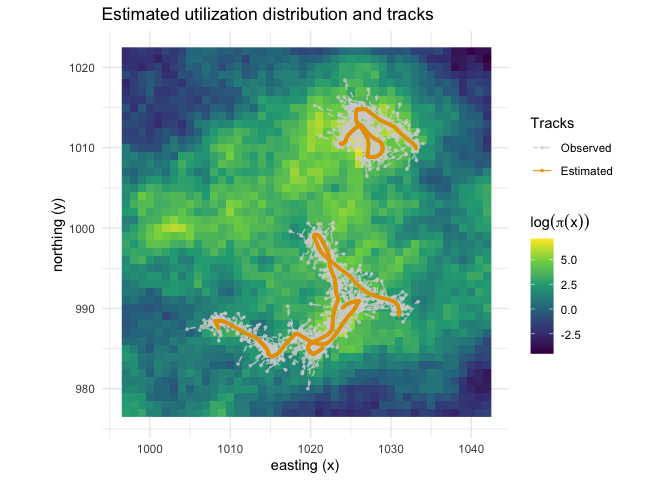
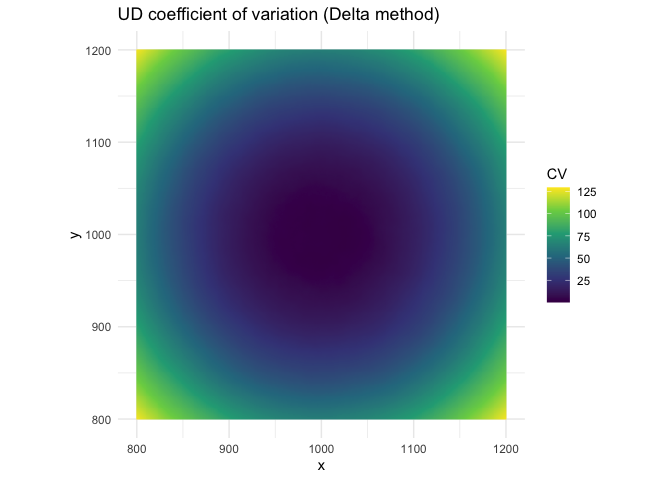
add UD uncertainty to README

diff --git a/README.md b/README.md
@@ -216,10 +216,31 @@ fit_under
 
 ``` r
 # calculate the estimated UD
-UD <- getUD(spatialCovs = exampleCovs, fit = fit_under)
+UD <- getUD(spatialCovs = exampleCovs, 
+            fit = fit_under, 
+            nSims = 1000, # Monte Carlo simulation
+            show_progress = FALSE)
 ```
 
 ![](man/figures/README-ud-1.png)<!-- -->
+
+``` r
+
+p_UD <- plotUD(UD)
+
+# UD relative uncertainty (Delta method approximation)
+p_UD$CV_delta
+```
+
+![](man/figures/README-ud-2.png)<!-- -->
+
+``` r
+
+# UD relative uncertainty (Monte Carlo simulation)
+p_UD$CV_sim
+```
+
+![](man/figures/README-ud-3.png)<!-- -->
 
 ``` r
 
@@ -227,18 +248,20 @@ UD <- getUD(spatialCovs = exampleCovs, fit = fit_under)
 plot(fit_under, spatialCovs = exampleCovs, data = exampleDat)
 ```
 
-![](man/figures/README-ud-2.png)<!-- -->
+![](man/figures/README-ud-4.png)<!-- -->
 
 #### Other S3 methods for `fitLangevin` objects
 
 ``` r
-coef(fit_under) # fixed effect estimates
+# fixed effect estimates
+coef(fit_under) 
 #>  beta_cov1  beta_cov2  beta_cov3   beta_d2c      sigma      gamma      rho_o 
 #> -3.5437139  8.6136199  7.5113365 -0.3083557  4.3092006  0.5849726  0.0000000 
 #>      tau_1      tau_2        psi 
 #>  1.0000000  1.0000000  1.0000000
 
-confint(fit_under) # confidence intervals for fixed effects
+# confidence intervals for fixed effects
+confint(fit_under) 
 #>                2.5 %     97.5 %
 #> beta_cov1 -5.9945650 -1.0928627
 #> beta_cov2  4.1147592 13.1124807
@@ -251,7 +274,9 @@ confint(fit_under) # confidence intervals for fixed effects
 #> tau_2      1.0000000  1.0000000
 #> psi        1.0000000  1.0000000
 
-mu_ci <- confint(fit_under, type= "mu") # confidence intervals for true locations
+# confidence intervals for true locations
+mu_ci <- confint(fit_under, type= "mu") 
+
 head(mu_ci)
 #>   id time_step     mu.x mu.x_2.5% mu.x_97.5%     mu.y mu.y_2.5% mu.y_97.5%
 #> 1  1         1 1023.966  1023.817   1024.115 990.0594  989.9307   990.1882
@@ -261,10 +286,12 @@ head(mu_ci)
 #> 5  1         5 1024.180  1024.091   1024.268 990.2515  990.1697   990.3333
 #> 6  1         6 1024.233  1024.153   1024.313 990.2968  990.2182   990.3754
 
-AIC(fit_under) # for comparing models with different fixed effects
+# AIC for comparing models with different fixed effects
+AIC(fit_under) 
 #> [1] 4135.94
 
-BIC(fit_under) # for comparing models with different fixed effects
+# BIC for comparing models with different fixed effects
+BIC(fit_under) 
 #> [1] 4167.819
 ```
 
@@ -272,8 +299,6 @@ BIC(fit_under) # for comparing models with different fixed effects
 
 ``` r
 # calculate one-step-ahead residuals for model diagnostics
-## can also be used to compare "underdamped" vs "overdamped" model fits
-
 res_under <- residuals(fit_under, data = exampleDat, spatialCovs = exampleCovs, ncores = 3)
 res_under
 #> 
@@ -310,6 +335,7 @@ p_under$qq_x + p_under$qq_y + p_under$acf_x + p_under$acf_y + plot_layout(ncol=2
 
 ``` r
 
+# can be used to compare "underdamped" vs "overdamped" models
 res_over <- residuals(fit_over, data = exampleDat, spatialCovs = exampleCovs, ncores = 3)
 res_over
 #> 
@@ -354,9 +380,9 @@ rasterOverlap(exp(UD), exp(trueUD))
 #### Regional presence probability
 
 ``` r
-# calculate probability of being in specified region
-## create a spatial mask for the region of interest
+# create a spatial mask for the region of interest
 d2c <- exampleCovs$d2c < 2.5
+
 reg_prob <- regionProb(fit_under,
                        spatialCovs = exampleCovs, 
                        mask = d2c, # region of interest
@@ -373,8 +399,8 @@ reg_prob
 #>   95% CI:         [0.0000, 0.6972]
 #> 
 #> Monte Carlo Simulation:
-#>   Standard Error: 0.2157
-#>   95% CI:         [0.0000, 0.7103]
+#>   Standard Error: 0.2172
+#>   95% CI:         [0.0000, 0.7124]
 #>   (Based on 1000 draws)
 
 plot(reg_prob, log = TRUE)